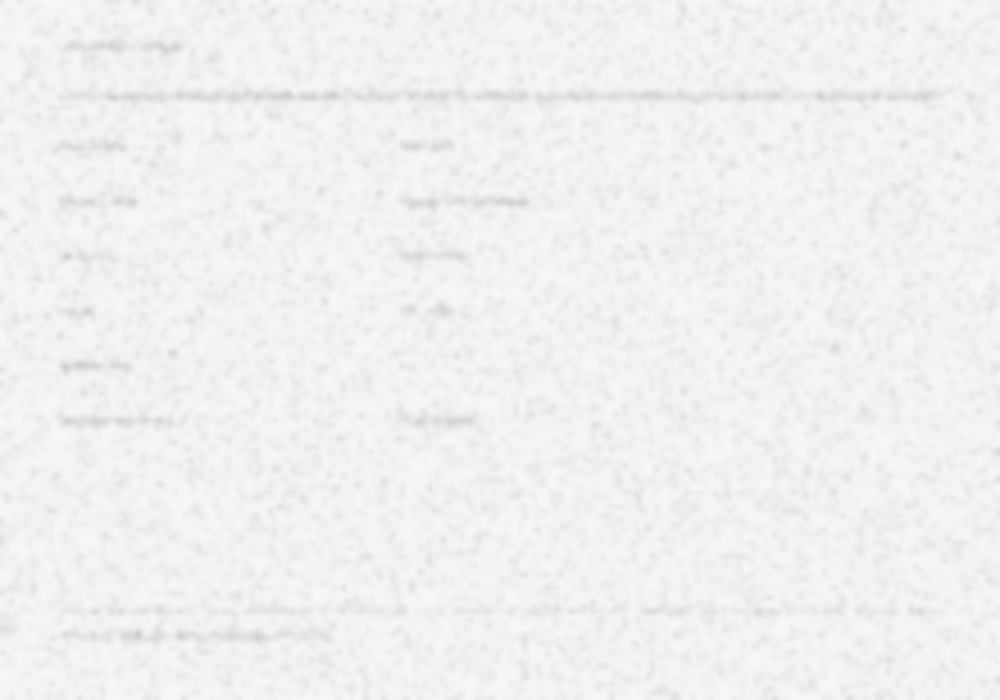
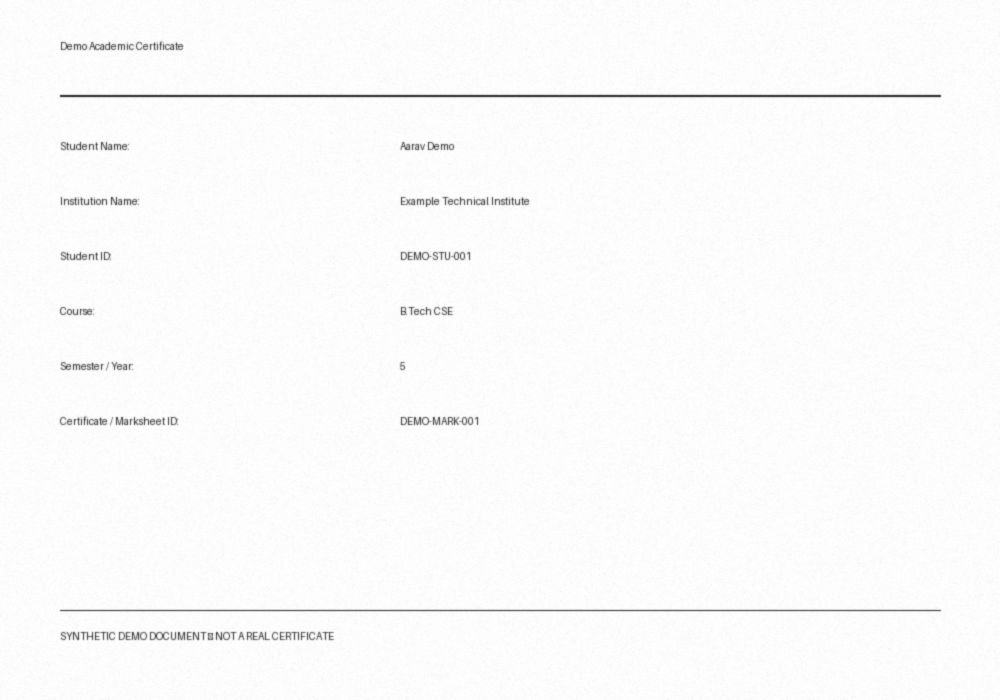
feat(fixtures): implement Task 03 synthetic registry

diff --git a/backend/app/fixtures/generate_samples.py b/backend/app/fixtures/generate_samples.py
@@ -29,10 +29,10 @@ FOOTER_TEXT = "SYNTHETIC DEMO DOCUMENT \u2014 NOT A REAL CERTIFICATE"
 # Questions). NOT yet validated against real PaddleOCR -- Task 05 doesn't
 # exist in this checkout. Tune together with Member A once it does, and
 # record the final values used in logs/task-03-registry.md.
-DEGRADED_DOWNSCALE_FACTOR = 0.22   # simulates a low-resolution phone photo
-DEGRADED_BLUR_RADIUS = 2.2
-DEGRADED_CONTRAST_FACTOR = 0.42
-DEGRADED_NOISE_STDDEV = 30
+DEGRADED_DOWNSCALE_FACTOR = 1.0    # keep source resolution so text stays crisp
+DEGRADED_BLUR_RADIUS = 0.7
+DEGRADED_CONTRAST_FACTOR = 0.90
+DEGRADED_NOISE_STDDEV = 5
 DEGRADED_SEED = 20240301           # fixed seed -> deterministic re-runs
 
 CATEGORY_TITLES = {

diff --git a/logs/task-03-registry.md b/logs/task-03-registry.md
@@ -1,0 +1,53 @@
+# Task 03 — Synthetic Registry and Seed Fixtures
+
+## Status
+Implementation tested; final specification review and Git review remain.
+
+## Branch
+`feature/task-03-registry`
+
+## Automated Tests
+- Task 03 tests: 8 passed.
+- Full backend test suite: 78 passed after the degraded-image changes.
+- Normal pytest command works without `-p no:asyncio`.
+
+## Dependencies
+- Pillow 12.3.0 installed in the active virtual environment.
+- Added `Pillow` to `backend/requirements.txt`.
+- Dependency change is local and uncommitted.
+
+## Sample Documents
+- Confirmed all 11 required sample files were present.
+- First three academic PNG samples were visually checked and readable.
+- Latest `academic_certificate_degraded.png` was visually checked by the team lead; text and footer are readable.
+- Remaining sample documents and the academic PDF were visually checked and reported readable.
+- The academic PDF was accidentally deleted during inspection and restored with `git restore`.
+
+## Degraded Image Settings
+Latest settings reported by Cursor:
+- `DEGRADED_DOWNSCALE_FACTOR = 1.0`
+- `DEGRADED_BLUR_RADIUS = 0.7`
+- `DEGRADED_CONTRAST_FACTOR = 0.90`
+- `DEGRADED_NOISE_STDDEV = 5`
+- `DEGRADED_SEED = 20240301`
+
+The latest image is visually readable. Its behavior against real OCR has not been verified here; coordinate with the OCR task owner when that implementation is available.
+
+## Remaining Verification
+1. Review the complete Task 03 implementation against the authoritative specification and locked category schemas.
+2. Confirm the seeder's create/unchanged/divergent behavior and exact fixture values against the specification.
+3. Confirm the generated samples' field-level values, exact footer, and mismatch-only differences against the specification.
+4. Confirm the Pillow dependency is appropriate and reproducible for project setup.
+5. Review the final diff and ensure only intended Task 03 changes are included.
+6. Update this log with any additional verified results before marking the task complete.
+
+## Current Git Status
+- Branch: `feature/task-03-registry`
+- Modified: `backend/app/fixtures/generate_samples.py`
+- Modified: `backend/app/fixtures/sample_documents/academic_certificate_degraded.png`
+- Modified: `backend/requirements.txt`
+- Untracked: `logs/task-03-registry.md`
+- No commit or push has been made for these local changes.
+
+## Completion
+Task 03 is not yet marked complete. Final completion depends on the remaining specification review and confirmation that all acceptance criteria are satisfied.
